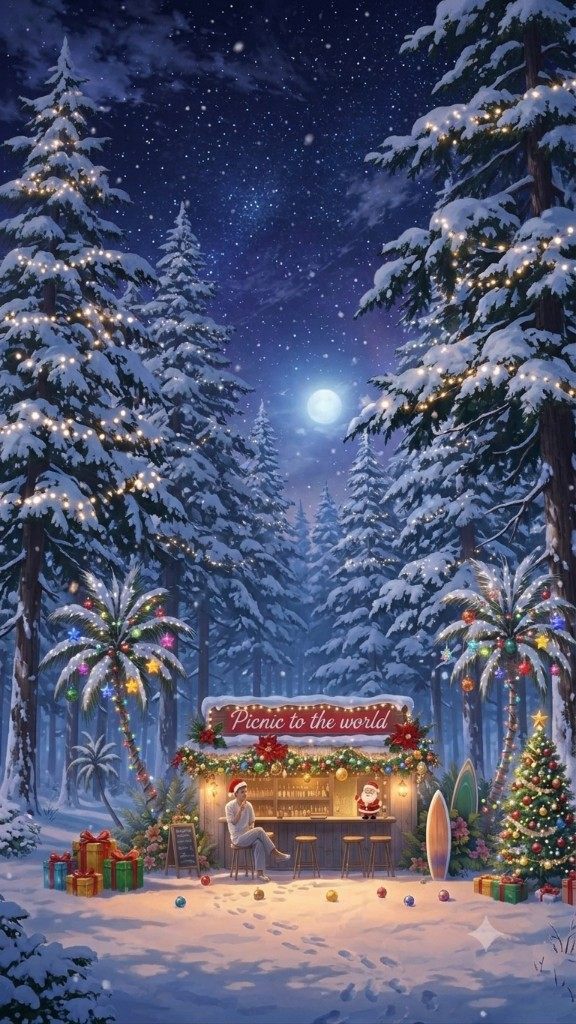
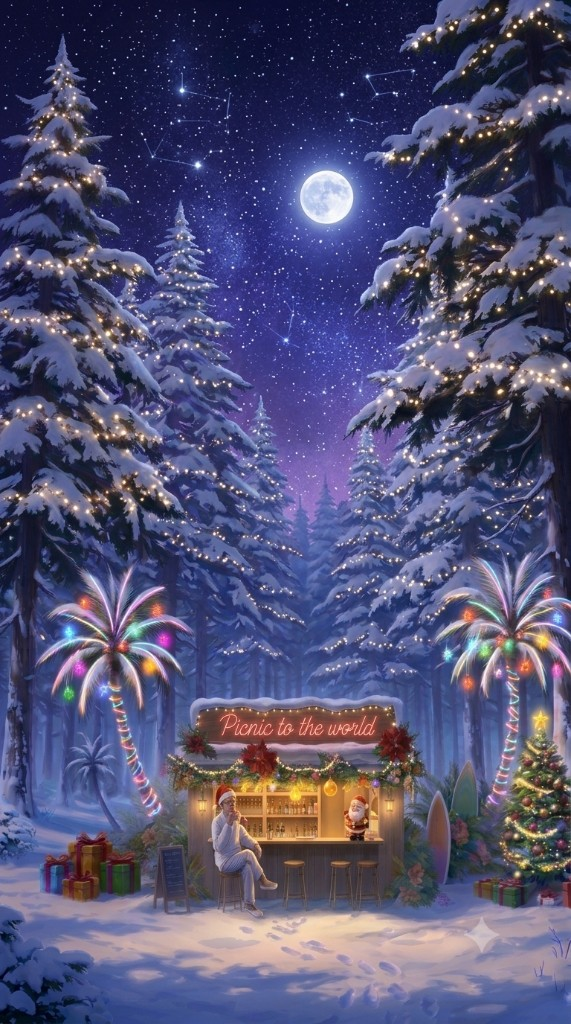
Switch menu3 winter FX to falling snow and refresh night art.
Show snow instead of bubbles in winter, and update the winter night background.

diff --git a/js/summer-fx.js b/js/summer-fx.js
@@ -1,13 +1,14 @@
 /**
- * Menu3 board — floating soap bubbles + day/evening background.
- * 11월~1월은 겨울 낮/밤 이미지를 쓴다.
+ * Menu3 board — seasonal particles + day/evening background.
+ * 겨울(11~1월): 눈. 그 외: 방울. 11월~1월은 겨울 낮/밤 이미지를 쓴다.
  */
 (() => {
   "use strict";
 
   const BUBBLE_COUNT = 22;
+  const SNOW_COUNT = 48;
   const DAY_END_HOUR = 17;
-  const BG_VERSION = "20261113a";
+  const BG_VERSION = "20261116d";
   const BG_DAY = `images/bg-summer-beach-day.jpg?v=${BG_VERSION}`;
   const BG_EVENING = `images/bg-summer-beach.jpg?v=${BG_VERSION}`;
   const BG_WINTER_DAY = `images/bg-winter-day.jpg?v=${BG_VERSION}`;
@@ -32,21 +33,33 @@
 
     const now = new Date();
     const day = isDaytime(now);
-    const mode = day ? "day" : "evening";
     const winter = isWinterSeason(now);
+    const timeMode = day ? "day" : "evening";
+    const season = winter ? "winter" : "other";
+    const sceneKey = `${season}-${timeMode}`;
     const nextSrc = winter
-      ? (day ? BG_WINTER_DAY : BG_WINTER_NIGHT)
-      : (day ? BG_DAY : BG_EVENING);
+      ? day
+        ? BG_WINTER_DAY
+        : BG_WINTER_NIGHT
+      : day
+        ? BG_DAY
+        : BG_EVENING;
     const board = document.querySelector(".summer-board");
 
-    if (img.dataset.timeMode !== mode) {
+    if (img.dataset.sceneKey !== sceneKey) {
       img.src = nextSrc;
-      img.dataset.timeMode = mode;
+      img.dataset.sceneKey = sceneKey;
+      img.dataset.timeMode = timeMode;
+      img.dataset.season = season;
     }
 
     document.body.classList.toggle("is-summer-day", day);
     document.body.classList.toggle("is-summer-evening", !day);
-    if (board) board.dataset.time = mode;
+    document.body.classList.toggle("is-winter-season", winter);
+    if (board) {
+      board.dataset.time = timeMode;
+      board.dataset.season = season;
+    }
   };
 
   const msUntilNextBgSwitch = () => {
@@ -66,18 +79,12 @@
   const scheduleBackgroundSwitch = () => {
     window.setTimeout(() => {
       applyBackground();
+      mountParticles();
       scheduleBackgroundSwitch();
     }, msUntilNextBgSwitch());
   };
 
-  const mountBubbles = () => {
-    const host = document.getElementById("summer-bubbles");
-    if (!host) return;
-
-    host.innerHTML = "";
-
-    if (prefersReducedMotion()) return;
-
+  const mountBubbles = (host) => {
     for (let i = 0; i < BUBBLE_COUNT; i += 1) {
       const el = document.createElement("span");
       const size = rand(0.55, 1) < 0.55 ? rand(18, 42) : rand(48, 110);
@@ -103,17 +110,66 @@
     }
   };
 
+  const mountSnow = (host) => {
+    for (let i = 0; i < SNOW_COUNT; i += 1) {
+      const el = document.createElement("span");
+      const size = rand(0.6, 1) < 0.7 ? rand(4, 10) : rand(11, 18);
+      const drift = rand(-70, 70);
+      const duration = rand(7, 16);
+      const delay = -rand(0, duration);
+      const sway = rand(3.5, 8);
+      const left = rand(0, 100);
+      const blur = size > 12 ? rand(0, 0.6) : 0;
+
+      el.className = "summer-snow";
+      if (size >= 13) el.classList.add("summer-snow--lg");
+      else if (size <= 6) el.classList.add("summer-snow--sm");
+
+      el.style.setProperty("--s-size", `${size.toFixed(1)}px`);
+      el.style.setProperty("--s-left", `${left.toFixed(2)}%`);
+      el.style.setProperty("--s-drift", `${drift.toFixed(1)}px`);
+      el.style.setProperty("--s-dur", `${duration.toFixed(2)}s`);
+      el.style.setProperty("--s-delay", `${delay.toFixed(2)}s`);
+      el.style.setProperty("--s-sway", `${sway.toFixed(2)}s`);
+      el.style.setProperty("--s-opacity", `${rand(0.45, 0.95).toFixed(2)}`);
+      el.style.setProperty("--s-blur", `${blur.toFixed(2)}px`);
+
+      host.appendChild(el);
+    }
+  };
+
+  const mountParticles = () => {
+    const host = document.getElementById("summer-bubbles");
+    if (!host) return;
+
+    host.innerHTML = "";
+    host.classList.remove("is-bubbles", "is-snow");
+
+    if (prefersReducedMotion()) return;
+
+    const winter = isWinterSeason();
+    if (winter) {
+      host.classList.add("is-snow");
+      mountSnow(host);
+      return;
+    }
+
+    host.classList.add("is-bubbles");
+    mountBubbles(host);
+  };
+
   const start = () => {
     applyBackground();
     scheduleBackgroundSwitch();
-    mountBubbles();
+    mountParticles();
   };
 
   window.SummerFx = {
     start,
-    remount: mountBubbles,
+    remount: mountParticles,
     applyBackground,
     isDaytime,
+    isWinterSeason,
   };
 
   document.addEventListener("DOMContentLoaded", start);

diff --git a/css/style.css b/css/style.css
@@ -2879,6 +2879,64 @@ html:has(.summer-page) body {
   }
 }
 
+.summer-snow {
+  position: absolute;
+  left: var(--s-left, 50%);
+  top: -8%;
+  bottom: auto;
+  width: var(--s-size, 8px);
+  height: var(--s-size, 8px);
+  border-radius: 50%;
+  opacity: var(--s-opacity, 0.75);
+  background:
+    radial-gradient(
+      circle at 35% 30%,
+      rgba(255, 255, 255, 0.98) 0%,
+      rgba(240, 248, 255, 0.85) 45%,
+      rgba(200, 220, 240, 0.35) 100%
+    );
+  box-shadow:
+    0 0 4px rgba(255, 255, 255, 0.55),
+    0 0 10px rgba(210, 230, 255, 0.25);
+  filter: blur(var(--s-blur, 0px));
+  will-change: top, transform, opacity;
+  animation: summer-snow-fall var(--s-dur, 12s) linear var(--s-delay, 0s) infinite;
+  animation-direction: normal;
+}
+
+.summer-snow--sm {
+  box-shadow: 0 0 3px rgba(255, 255, 255, 0.45);
+}
+
+.summer-snow--lg {
+  box-shadow:
+    0 0 6px rgba(255, 255, 255, 0.7),
+    0 0 14px rgba(220, 235, 255, 0.35);
+}
+
+/* 화면 위(-8%)에서 아래(108%)로 낙하 */
+@keyframes summer-snow-fall {
+  0% {
+    top: -8%;
+    transform: translateX(0);
+    opacity: 0;
+  }
+  8% {
+    opacity: var(--s-opacity, 0.75);
+  }
+  50% {
+    transform: translateX(var(--s-drift, 20px));
+  }
+  90% {
+    opacity: var(--s-opacity, 0.75);
+  }
+  100% {
+    top: 108%;
+    transform: translateX(calc(var(--s-drift, 20px) * 0.35));
+    opacity: 0;
+  }
+}
+
 @media (prefers-reduced-motion: reduce) {
   .summer-bubbles {
     display: none;

diff --git a/menu3.html b/menu3.html
@@ -5,13 +5,13 @@
   <meta name="viewport" content="width=device-width, initial-scale=1.0" />
   <title>카페귀천 · Menu 3 · Summer</title>
   <meta http-equiv="Cache-Control" content="no-cache, no-store, must-revalidate" />
-  <link rel="stylesheet" href="css/style.css?v=20261113a" />
+  <link rel="stylesheet" href="css/style.css?v=20261116d" />
 </head>
 <body class="summer-page">
   <div class="summer-board" data-page="menu3">
     <img
       class="summer-board__bg"
-      src="images/bg-summer-beach-day.jpg?v=20260806e"
+      src="images/bg-winter-day.jpg?v=20261116d"
       alt=""
       width="576"
       height="1024"
@@ -35,8 +35,8 @@
     />
   </div>
 
-  <script src="js/menu.js?v=20261113a" defer></script>
-  <script src="js/summer-fx.js?v=20261113a" defer></script>
-  <script src="js/refresh.js?v=20261113a" defer></script>
+  <script src="js/menu.js?v=20261116d" defer></script>
+  <script src="js/summer-fx.js?v=20261116d" defer></script>
+  <script src="js/refresh.js?v=20261116d" defer></script>
 </body>
 </html>
